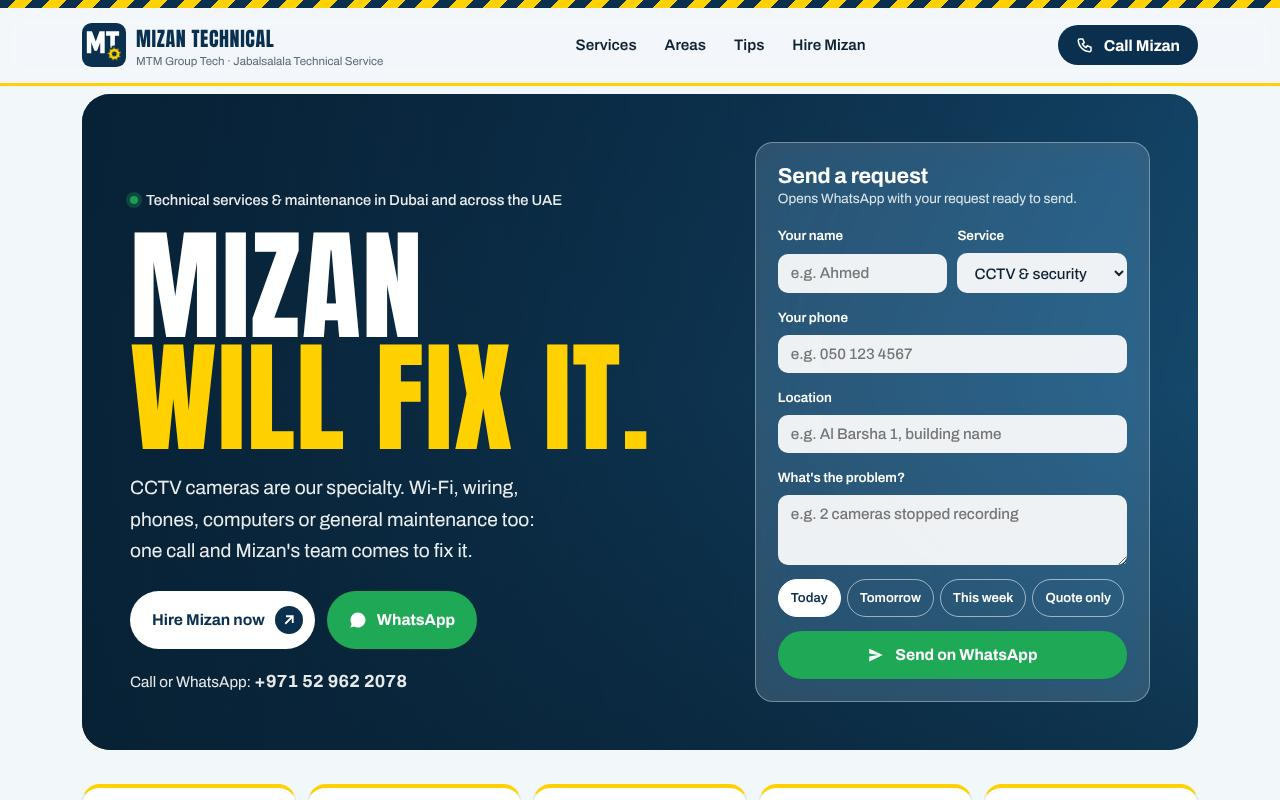
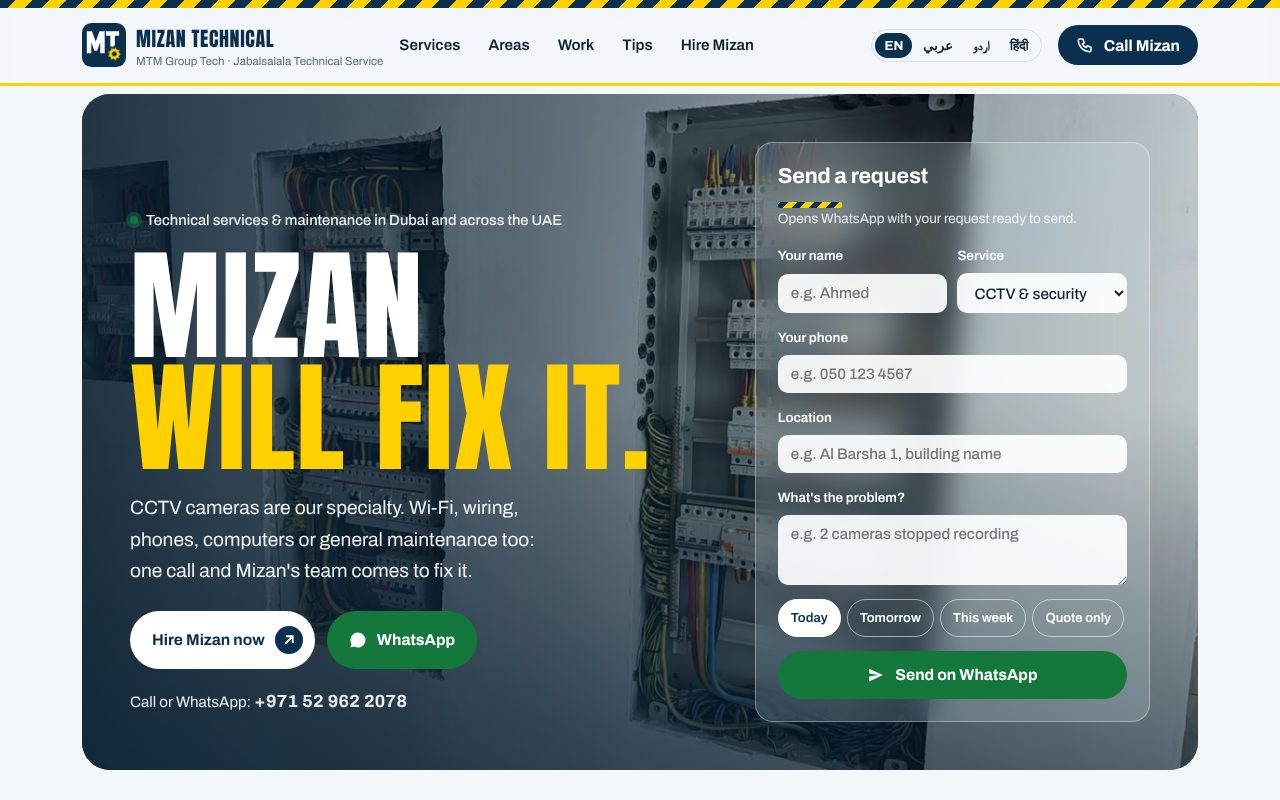
Portfolio: Mizan Technical card links to the live mizantechnical.site
Claude-Session: https://claude.ai/code/session_01DmaMEPcf8ebpyZXKuahAhC

diff --git a/index.html b/index.html
@@ -167,7 +167,7 @@
         <div class="shot"><img src="/thumbs/mahdiyeh-falaki.jpg" alt="Mahdiyeh Falaki real estate website" loading="lazy" width="1280" height="800"></div>
         <div class="meta"><span><b>Mahdiyeh Falaki</b><small>Real estate advisor · Dubai</small></span><span class="go">View site →</span></div>
       </a>
-      <a class="card" href="/mtm-group-tech/">
+      <a class="card" href="https://mizantechnical.site/" target="_blank" rel="noopener">
         <div class="shot"><img src="/thumbs/mtm-group-tech.jpg" alt="Mizan Technical (MTM Group Tech) website" loading="lazy" width="1280" height="800"></div>
         <div class="meta"><span><b>Mizan Technical</b><small>CCTV, cabling &amp; IT · Bur Dubai</small></span><span class="go">View site →</span></div>
       </a>
